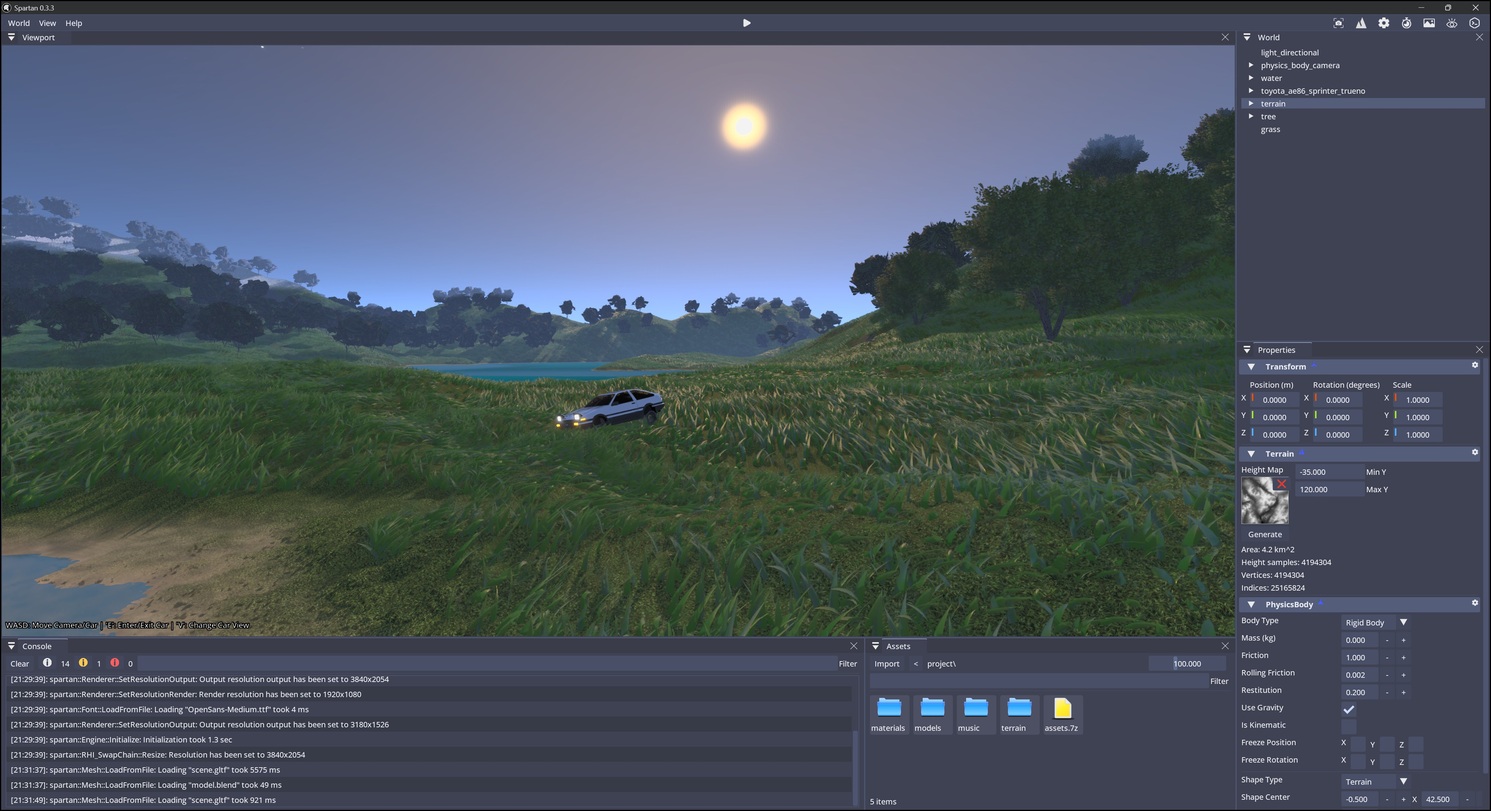
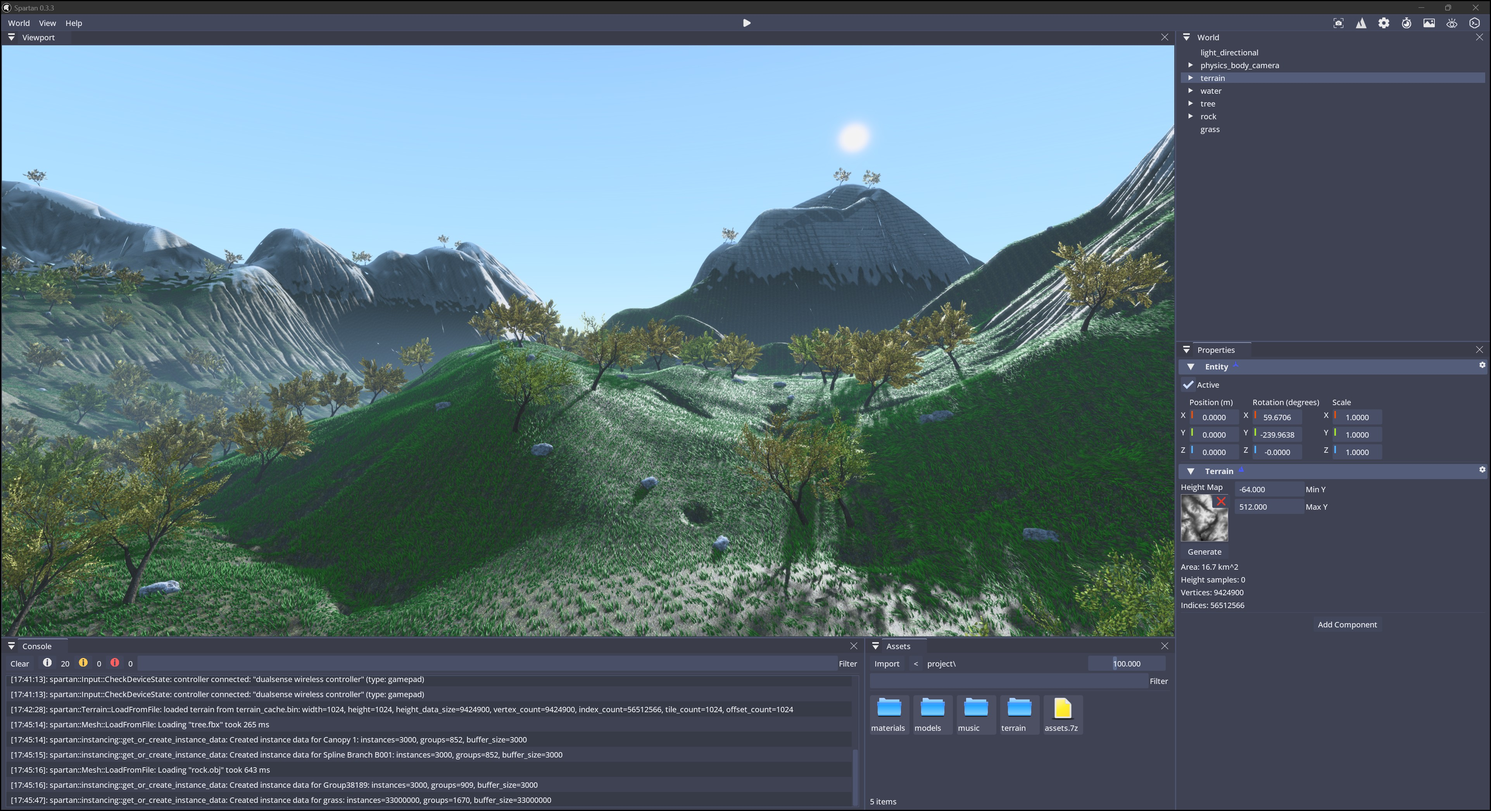
[github] updated readme with the latest forest

diff --git a/runtime/Game/Game.cpp b/runtime/Game/Game.cpp
@@ -1687,8 +1687,8 @@ namespace spartan
                         switch (dir)
                         {
                             case Direction::Front: next_pos.second -= 1; break;
-                            case Direction::Back: next_pos.second += 1; break;
-                            case Direction::Left: next_pos.first -= 1; break;
+                            case Direction::Back:  next_pos.second += 1; break;
+                            case Direction::Left:  next_pos.first -= 1; break;
                             case Direction::Right: next_pos.first += 1; break;
                             default: SP_ASSERT(false); break;
                         }

diff --git a/readme.md b/readme.md
@@ -29,7 +29,7 @@ Upon launching the engine, you'll be greeted with a selection of default worlds 
 
 **Forest**
 <img src="https://raw.githubusercontent.com/PanosK92/SpartanEngine/master/.github/images/world_forest.jpg"/>
-The Forest is the most advanced and demanding worlds. It features **50 million** procedurally generated grass blades, fully simulated and inspired by **Ghost of Tsushima**. The world spans **9.4 km²**, covered in **10,000** trees and rocks, and includes a drivable car.
+The Forest is the most advanced and demanding worlds. It features **33 million** procedurally generated grass blades, fully simulated and inspired by **Ghost of Tsushima**. The world spans **16.7 km²**, covered in **6,000** trees and rocks.
 
 **Some of the other worlds**
 | Sponza 4K | Doom |
